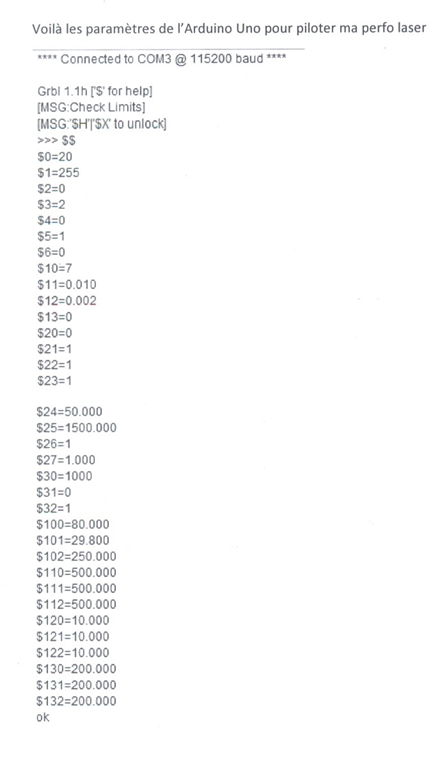
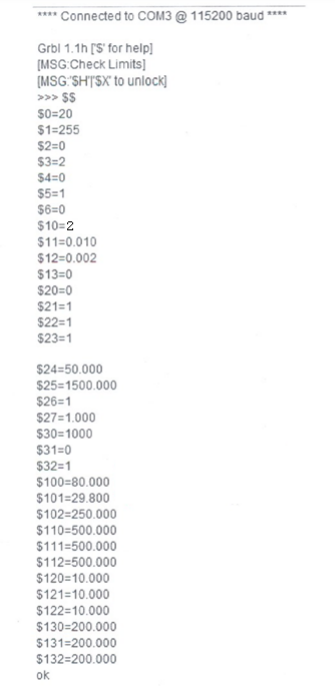
fix $10=2, non reporté

Changed region(s): [[0.0597, 0.0, 0.9552, 1.0]]

diff --git a/wiki/articles/Articles_Perforatrice_Lazer/Setup_Perfo_Lazer_GRBL.md b/wiki/articles/Articles_Perforatrice_Lazer/Setup_Perfo_Lazer_GRBL.md
@@ -127,7 +127,7 @@ Le paramétrage utilisé pour la perfo de Jean Pierre :
 | $4=0                           | Step enable invert, 			boolean   |
 | $5=1                           | Limit pins invert, 			boolean    |
 | $6=0                           | Probe pin invert, 			boolean     |
-| $10=7                          | Status report, mask                       |
+| $10=2                          | Status report, mask                       |
 | $11=0.010                      | Junction deviation, 			mm        |
 | $12=0.002                      | Arc tolerance, mm                         |
 | $13=0                          | Report inches, 			boolean        |
